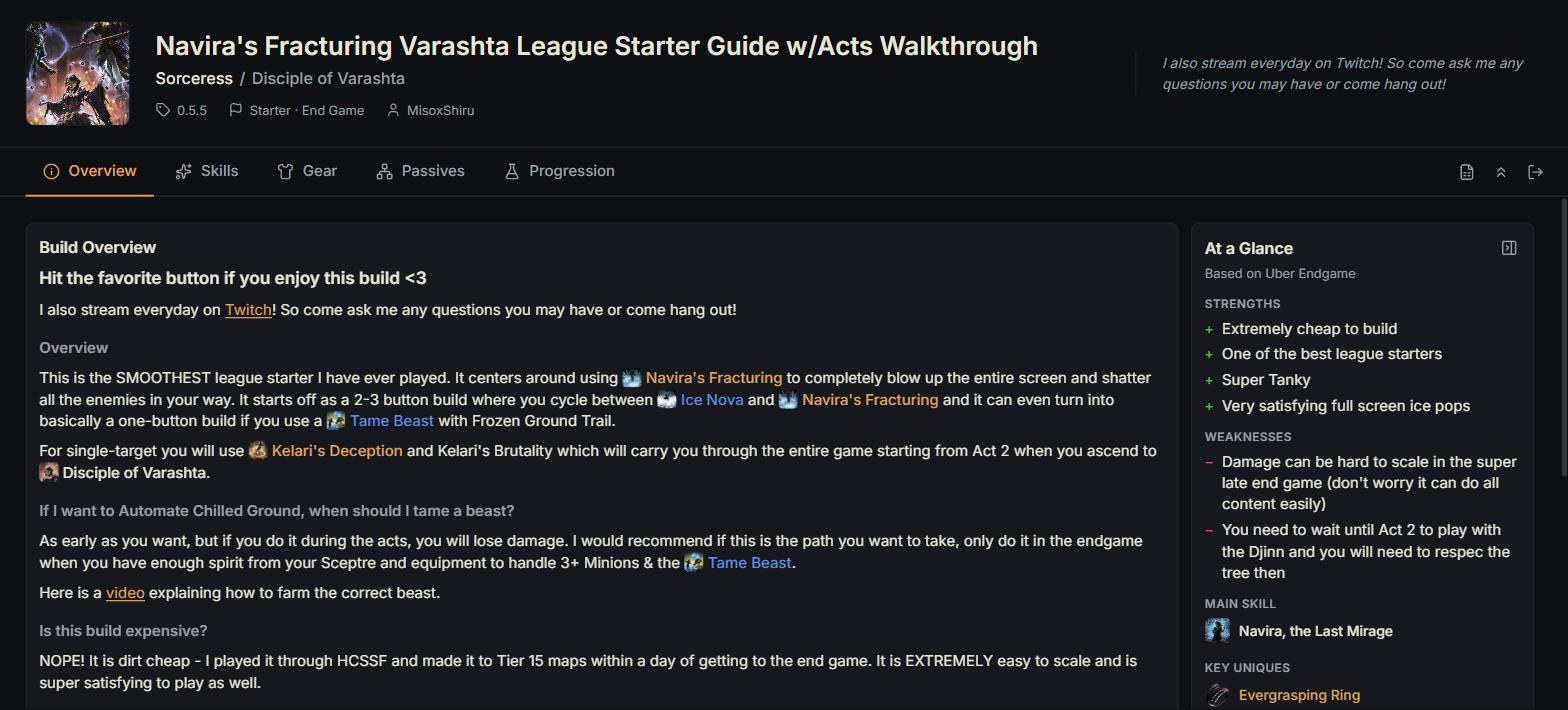
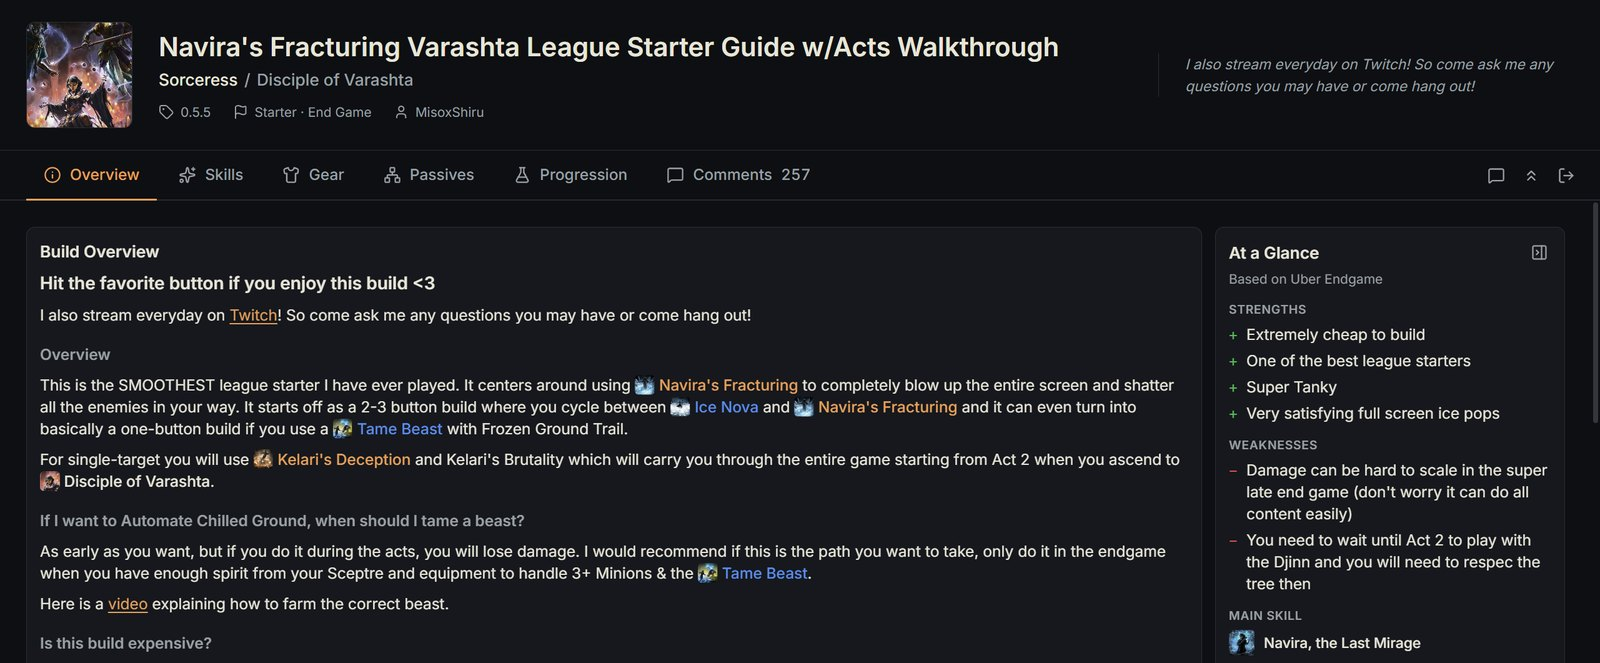
Release 1.4.0: new screenshots in the README
Version 1.4.0 with its changelog section: the comments, builds from
player profiles, and the trees of single-variant builds. The README
pictures are taken again on the same guide, now at full resolution, Gear
with the comments panel beside it and a new one of the Comments tab.
Commenters' names, pictures and words are blurred in them.

diff --git a/README.md b/README.md
@@ -50,9 +50,9 @@ gem to copy its name for the in-game search; hover a gem in the priority list to
 
 Every slot on one screen, with sockets, runes, granted skills and the author's gear priority. Tooltips read like the
 game's own and show the base item's modifier above the rolled ones; the scales icon opens the item on the official
-trade site with its filters already set.
+trade site with its filters already set. Here with the build's comments open beside it, as on any tab.
 
-![Gear: every slot on one screen with an item tooltip open](docs/images/gear.jpg)
+![Gear: every slot on one screen, with the build's comments in a side panel](docs/images/gear.jpg)
 
 ### Passives and Atlas Tree
 
@@ -74,6 +74,10 @@ The build's discussion from the original page, read like a thread: answers nest 
 author's replies stand out, and more comments load as you scroll. Search them, sort them, keep only the threads the
 author answered in, and write, reply or vote right there as your own Mobalytics account. The comment icon in the tab
 bar opens the same feed as a side panel next to whatever tab you are reading.
+
+![Comments: the build's discussion as a thread feed, with search, sorting and a reply box](docs/images/comments.jpg)
+
+<sub>Commenters' names, pictures and words are blurred in these pictures; in the guide they read as on the site.</sub>
 
 ### And also
 

diff --git a/CHANGELOG.md b/CHANGELOG.md
@@ -1,6 +1,6 @@
 # Changelog
 
-## Unreleased
+## 1.4.0
 
 ### Builds from player profiles
 - Builds published from a player's profile (`mobalytics.gg/poe-2/profile/<player>/builds/…`) now open in the guide
